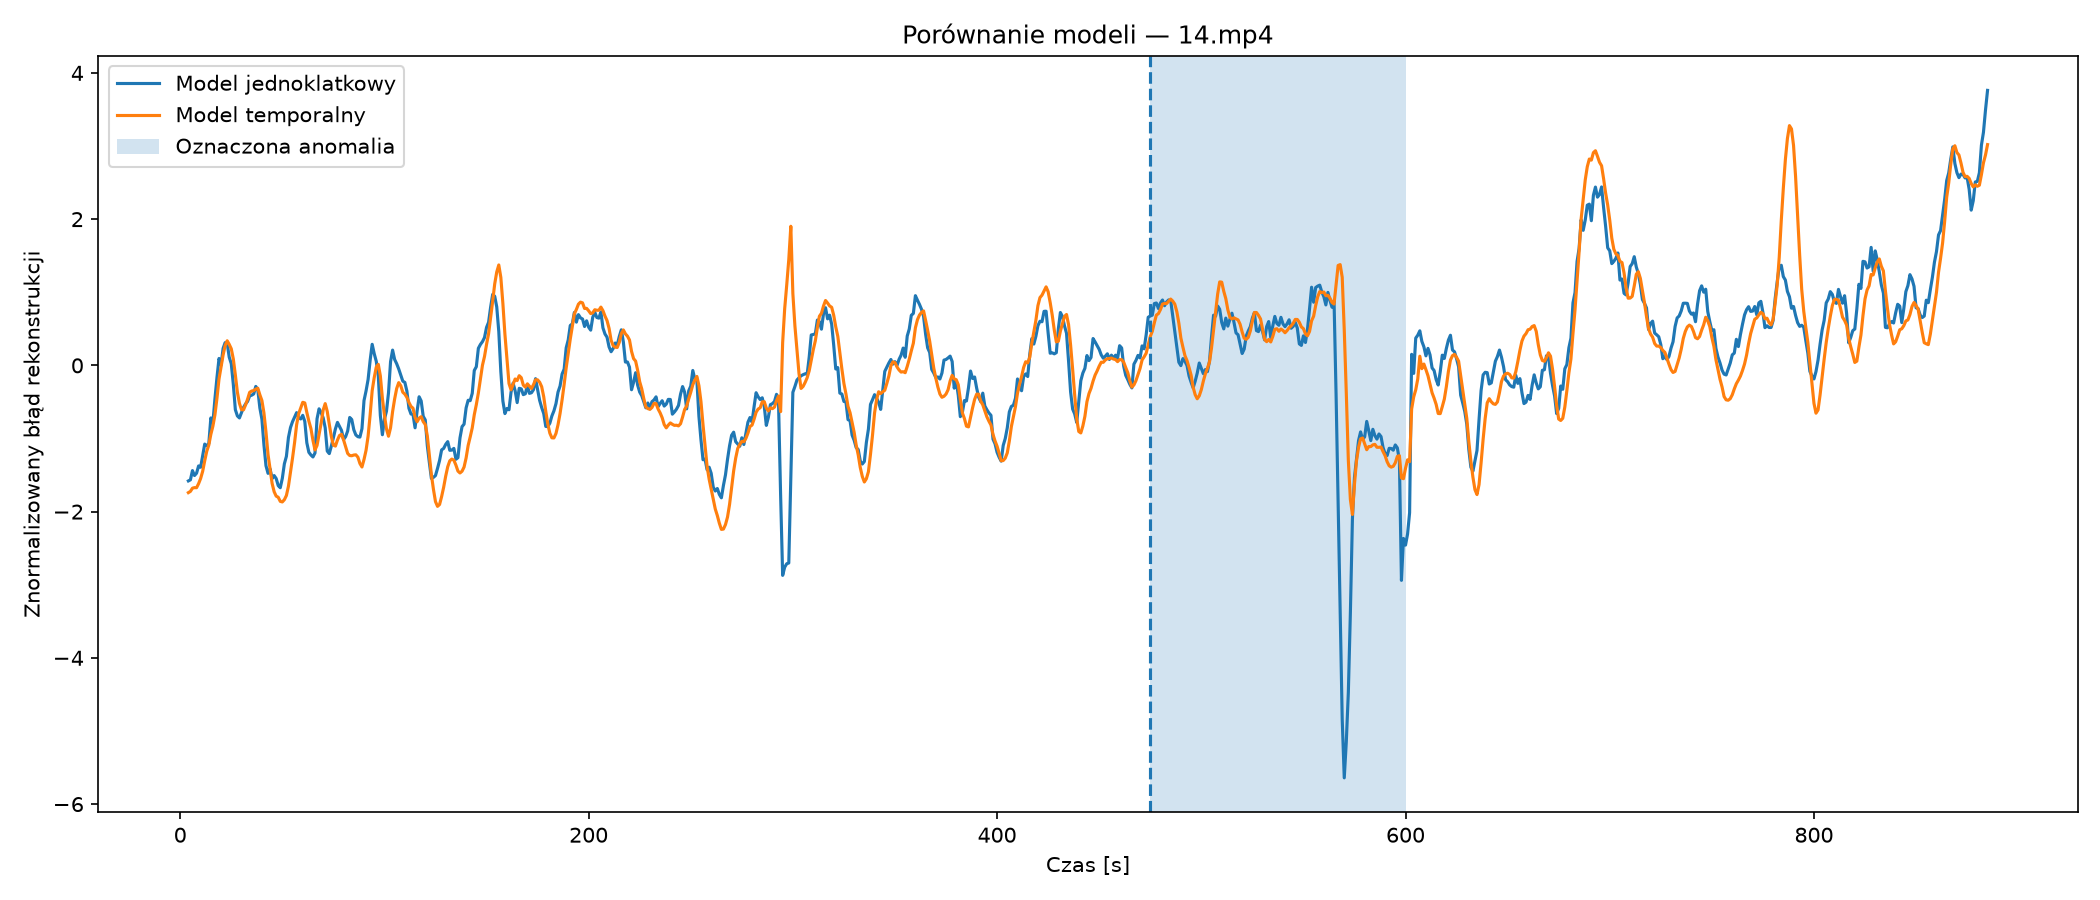
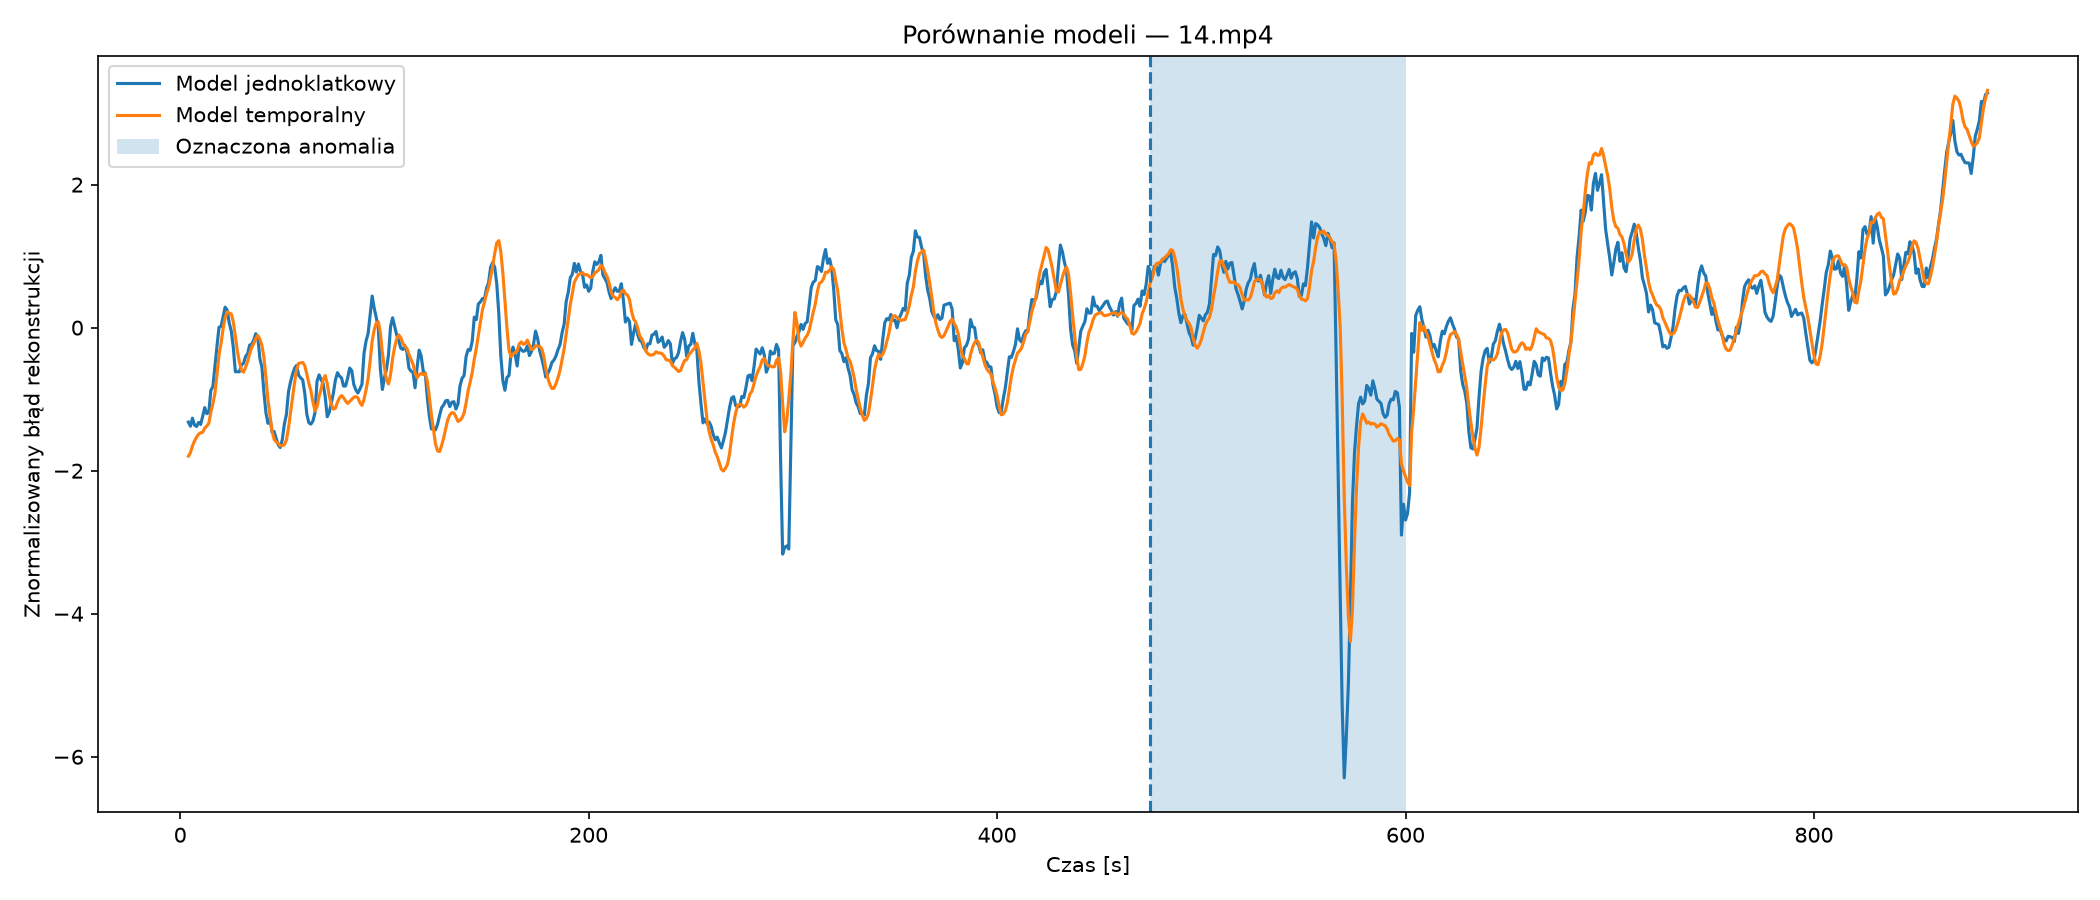
improve evaluation split and add ROC AUC

Changed region(s): [[0.0929, 0.2489, 0.7738, 0.7156], [0.7429, 0.0933, 0.9595, 0.4356]]

diff --git a/src/evaluate_test_set.py b/src/evaluate_test_set.py
@@ -1,0 +1,163 @@
+from pathlib import Path
+import argparse
+
+import cv2
+import numpy as np
+from sklearn.metrics import roc_auc_score
+from tensorflow import keras
+
+
+parser = argparse.ArgumentParser()
+parser.add_argument("videos_dir", type=Path)
+parser.add_argument("baseline_model", type=Path)
+parser.add_argument("temporal_model", type=Path)
+args = parser.parse_args()
+
+TARGET_WIDTH = 128
+TARGET_HEIGHT = 64
+TARGET_FPS = 1
+SEQUENCE_LENGTH = 5
+SMOOTHING_WINDOW = 5
+
+test_videos = {
+    "91": (602, 900),
+    "14": (475, 600),
+    "35": (106, 185),
+}
+
+baseline_model = keras.models.load_model(args.baseline_model)
+temporal_model = keras.models.load_model(args.temporal_model)
+
+
+def load_frames(video_path):
+    video = cv2.VideoCapture(str(video_path))
+
+    if not video.isOpened():
+        raise RuntimeError(f"Nie udało się otworzyć: {video_path}")
+
+    fps = video.get(cv2.CAP_PROP_FPS)
+    frame_step = max(1, round(fps / TARGET_FPS))
+
+    frames = []
+    times = []
+    frame_number = 0
+
+    while True:
+        success, frame = video.read()
+
+        if not success:
+            break
+
+        if frame_number % frame_step == 0:
+            frame = cv2.cvtColor(frame, cv2.COLOR_BGR2GRAY)
+            frame = cv2.resize(frame, (TARGET_WIDTH, TARGET_HEIGHT))
+            frame = frame.astype(np.float32) / 255.0
+            frame = np.expand_dims(frame, axis=-1)
+
+            frames.append(frame)
+            times.append(frame_number / fps)
+
+        frame_number += 1
+
+    video.release()
+
+    return np.array(frames, dtype=np.float32), np.array(times)
+
+
+def smooth(values):
+    padding = SMOOTHING_WINDOW // 2
+    padded = np.pad(values, (padding, padding), mode="edge")
+    kernel = np.ones(SMOOTHING_WINDOW) / SMOOTHING_WINDOW
+    result = np.convolve(padded, kernel, mode="valid")
+    return result[:len(values)]
+
+
+def normalize(values):
+    mean = values.mean()
+    std = values.std()
+
+    if std == 0:
+        return values - mean
+
+    return (values - mean) / std
+
+
+all_labels = []
+all_baseline_scores = []
+all_temporal_scores = []
+
+for video_id, (anomaly_start, anomaly_end) in test_videos.items():
+    video_path = args.videos_dir / f"{video_id}.mp4"
+
+    frames, times = load_frames(video_path)
+
+    baseline_reconstructed = baseline_model.predict(
+        frames,
+        batch_size=32,
+        verbose=0
+    )
+
+    baseline_errors = np.mean(
+        np.square(frames - baseline_reconstructed),
+        axis=(1, 2, 3)
+    )
+
+    sequences = np.array(
+        [
+            frames[i:i + SEQUENCE_LENGTH]
+            for i in range(len(frames) - SEQUENCE_LENGTH + 1)
+        ],
+        dtype=np.float32
+    )
+
+    temporal_reconstructed = temporal_model.predict(
+        sequences,
+        batch_size=16,
+        verbose=0
+    )
+
+    temporal_errors = np.mean(
+        np.square(sequences - temporal_reconstructed),
+        axis=(1, 2, 3, 4)
+    )
+
+    comparison_times = times[SEQUENCE_LENGTH - 1:]
+    baseline_errors = baseline_errors[SEQUENCE_LENGTH - 1:]
+
+    baseline_scores = smooth(baseline_errors)
+    temporal_scores = smooth(temporal_errors)
+
+    labels = (
+        (comparison_times >= anomaly_start)
+        & (comparison_times <= anomaly_end)
+    ).astype(int)
+
+    baseline_auc = roc_auc_score(labels, baseline_scores)
+    temporal_auc = roc_auc_score(labels, temporal_scores)
+
+    print(f"{video_id}.mp4")
+    print(f"Baseline AUC: {baseline_auc:.4f}")
+    print(f"Temporal AUC: {temporal_auc:.4f}")
+    print()
+
+    all_labels.extend(labels)
+    all_baseline_scores.extend(normalize(baseline_scores))
+    all_temporal_scores.extend(normalize(temporal_scores))
+
+all_labels = np.array(all_labels)
+all_baseline_scores = np.array(all_baseline_scores)
+all_temporal_scores = np.array(all_temporal_scores)
+
+overall_baseline_auc = roc_auc_score(
+    all_labels,
+    all_baseline_scores
+)
+
+overall_temporal_auc = roc_auc_score(
+    all_labels,
+    all_temporal_scores
+)
+
+print("Łączny wynik dla zbioru ewaluacyjnego")
+print(f"ROC AUC model jednoklatkowy: {overall_baseline_auc:.4f}")
+print(f"ROC AUC model temporalny: {overall_temporal_auc:.4f}")

diff --git a/src/compare_models.py b/src/compare_models.py
@@ -6,6 +6,7 @@ import matplotlib.pyplot as plt
 import numpy as np
 from tensorflow import keras
 
+from sklearn.metrics import roc_auc_score
 
 parser = argparse.ArgumentParser()
 
@@ -137,6 +138,21 @@ baseline_normalized = normalize(
 temporal_normalized = normalize(
     smooth(temporal_errors)
 )
+
+labels = (
+    (comparison_times >= args.anomaly_start)
+    & (comparison_times <= args.anomaly_end)
+).astype(int)
+
+baseline_scores = smooth(baseline_errors)
+temporal_scores = smooth(temporal_errors)
+
+baseline_auc = roc_auc_score(labels, baseline_scores)
+temporal_auc = roc_auc_score(labels, temporal_scores)
+
+print()
+print(f"ROC AUC model jednoklatkowy: {baseline_auc:.4f}")
+print(f"ROC AUC model temporalny: {temporal_auc:.4f}")
 
 anomaly_mask = (
     (comparison_times >= args.anomaly_start)

diff --git a/src/analyze_test_video.py b/src/analyze_test_video.py
@@ -28,6 +28,9 @@ if not video.isOpened():
 
 fps = video.get(cv2.CAP_PROP_FPS)
 
+TARGET_FPS = 1
+frame_step = max(1, round(fps / TARGET_FPS))
+
 errors = []
 times = []
 
@@ -41,6 +44,9 @@ while True:
         break
 
     frame_number = int(video.get(cv2.CAP_PROP_POS_FRAMES)) - 1
+
+    if frame_number % frame_step != 0:
+        continue
 
     frame = cv2.cvtColor(frame, cv2.COLOR_BGR2GRAY)
     frame = cv2.resize(frame, (128, 64))
@@ -86,7 +92,7 @@ anomaly_start = args.anomaly_start
 anomaly_end = args.anomaly_end
 
 window_seconds = 5
-window_size = max(1, int(fps * window_seconds))
+window_size = max(1, int(TARGET_FPS * window_seconds))
 
 padding = window_size // 2
 

diff --git a/src/train_autoencoder.py b/src/train_autoencoder.py
@@ -5,6 +5,11 @@ import numpy as np
 from tensorflow import keras
 from tensorflow.keras import layers
 
+import tensorflow as tf
+
+keras.utils.set_random_seed(42)
+tf.config.experimental.enable_op_determinism()
+
 
 parser = argparse.ArgumentParser()
 

diff --git a/src/train_temporal_autoencoder.py b/src/train_temporal_autoencoder.py
@@ -5,6 +5,11 @@ import numpy as np
 from tensorflow import keras
 from tensorflow.keras import layers
 
+import tensorflow as tf
+
+keras.utils.set_random_seed(42)
+tf.config.experimental.enable_op_determinism()
+
 
 parser = argparse.ArgumentParser()
 

diff --git a/src/prepare_frames.py b/src/prepare_frames.py
@@ -18,7 +18,7 @@ parser.add_argument(
 parser.add_argument(
     "--videos",
     nargs="+",
-    default=["1", "3", "4"],
+    default=["37", "1", "27", "38", "23", "34", "15", "62", "6", "17"],
     help="Video IDs to process"
 )
 

diff --git a/src/prepare_sequences.py b/src/prepare_sequences.py
@@ -15,7 +15,7 @@ parser.add_argument(
 parser.add_argument(
     "--videos",
     nargs="+",
-    default=["1", "3", "4"]
+    default=["37", "1", "27", "38", "23", "34", "15", "62", "6", "17"],
 )
 
 parser.add_argument(
